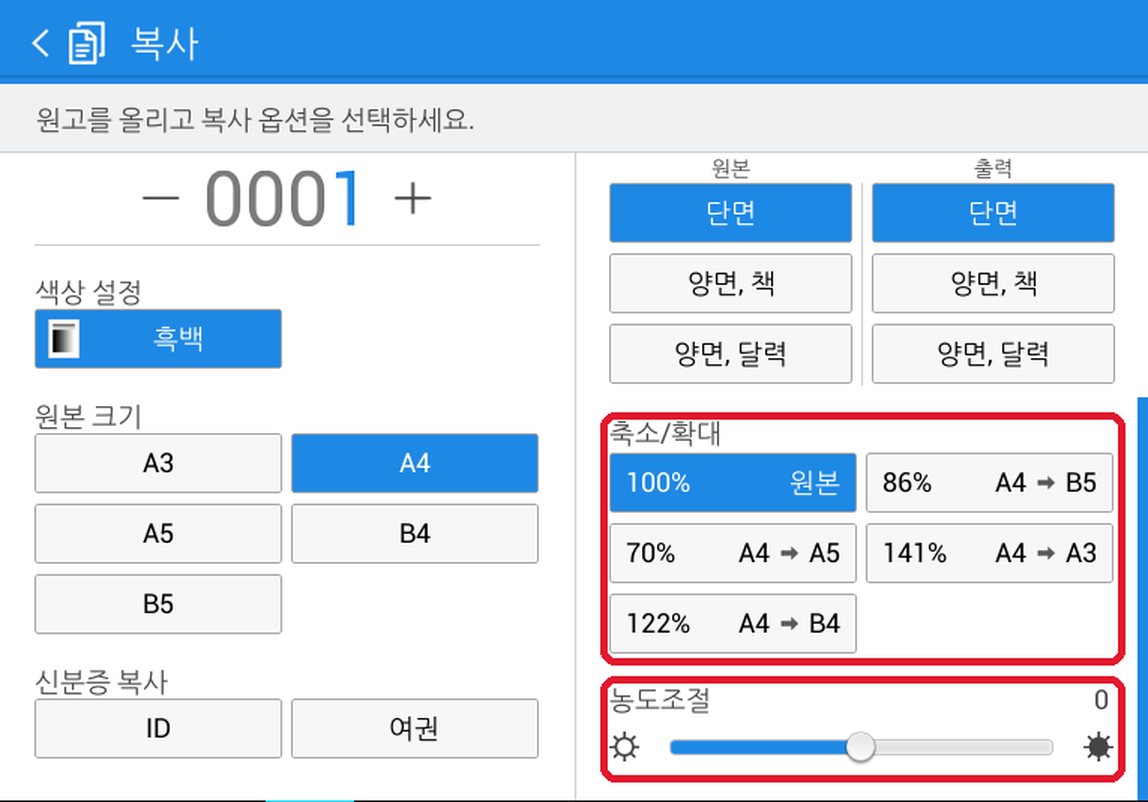
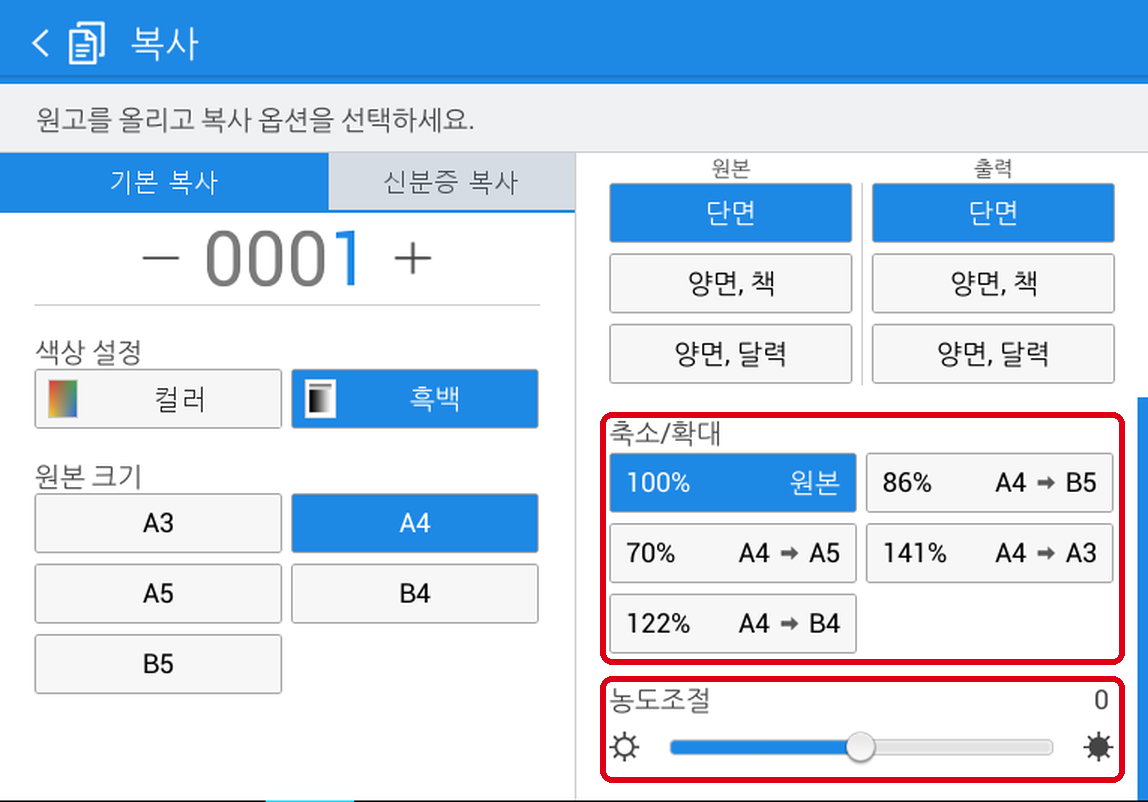
fix: 복사 꿀팁 그림 — 2017 설명서 옛 화면(흑백 하나·탭 없음)을 지금 기계 화면대로: [기본 복사][신분증 복사] 탭, 색상 [컬러][흑백], 신분증 칸 없음 (영·중 그림도 다시)

diff --git a/vi/guide-copy.html b/vi/guide-copy.html
@@ -568,7 +568,7 @@ footer{background:#111827;color:rgba(255,255,255,.55);padding:60px 6%}
 <div class="sec-in">
 <div class="sec-head"><h2 class="sec-h2">Mẹo photo</h2></div>
 <p class="sec-tagline">Trên màn hình photo, bạn có thể đổi kích thước và độ đậm nhạt.</p>
-<a href="../images/copy/copy-zoom-density_en.png" rel="noopener" target="_blank"><img alt="Màn hình photo. Trong khung đỏ là [Reduce/Enlarge] (Thu nhỏ/Phóng to) và [Darkness] (Độ đậm)" class="tipfig" loading="lazy" src="../images/copy/copy-zoom-density_en.png"/></a>
+<a href="../images/copy/copy-zoom-density_en.png?v=2" rel="noopener" target="_blank"><img alt="Màn hình photo. Trong khung đỏ là [Reduce/Enlarge] (Thu nhỏ/Phóng to) và [Darkness] (Độ đậm)" class="tipfig" loading="lazy" src="../images/copy/copy-zoom-density_en.png?v=2"/></a>
 <div class="tips">
 <div class="tip"><div class="tip-h">🔍 Photo to hơn · nhỏ hơn</div><p class="tip-p">Chọn ở <b>[Reduce/Enlarge]</b> (Thu nhỏ/Phóng to).<br/>A4 → A3 to hơn: <b>141%</b><br/>A4 → B4 to hơn: <b>122%</b><br/>A4 → B5 nhỏ hơn: <b>86%</b><br/>A4 → A5 nhỏ hơn: <b>70%</b></p></div>
 <div class="tip"><div class="tip-h">🌗 Nếu quá nhạt hoặc quá đậm</div><p class="tip-p">Kéo thanh <b>[Darkness]</b> (Độ đậm).<br/>Kéo sang phải để <b>đậm hơn</b>, sang trái để <b>nhạt hơn</b>.</p></div>

diff --git a/guide-copy.html b/guide-copy.html
@@ -617,7 +617,7 @@ footer{background:#111827;color:rgba(255,255,255,.55);padding:60px 6%}
   <div class="sec-in">
     <div class="sec-head"><h2 class="sec-h2">복사 꿀팁</h2></div>
     <p class="sec-tagline">복사 화면에서 크기와 진하기를 바꿀 수 있어요.</p>
-    <a href="images/copy/copy-zoom-density.png" target="_blank" rel="noopener"><img class="tipfig" src="images/copy/copy-zoom-density.png" alt="복사 화면. 빨간 상자 안에 [축소/확대]와 [농도조절]이 있는 모습" loading="lazy"></a>
+    <a href="images/copy/copy-zoom-density.png?v=2" target="_blank" rel="noopener"><img class="tipfig" src="images/copy/copy-zoom-density.png?v=2" alt="복사 화면. 빨간 상자 안에 [축소/확대]와 [농도조절]이 있는 모습" loading="lazy"></a>
     <div class="tips">
       <div class="tip"><div class="tip-h">🔍 크게 · 작게 복사</div><p class="tip-p"><b>[축소/확대]</b>에서 고르세요.<br>A4 → A3 크게: <b>141%</b><br>A4 → B4 크게: <b>122%</b><br>A4 → B5 작게: <b>86%</b><br>A4 → A5 작게: <b>70%</b></p></div>
       <div class="tip"><div class="tip-h">🌗 너무 연하거나 진하면</div><p class="tip-p"><b>[농도조절]</b> 막대를 움직이세요.<br>오른쪽으로 밀면 <b>진하게</b>, 왼쪽으로 밀면 <b>연하게</b> 나와요.</p></div>

diff --git a/en/guide-copy.html b/en/guide-copy.html
@@ -568,7 +568,7 @@ footer{background:#111827;color:rgba(255,255,255,.55);padding:60px 6%}
 <div class="sec-in">
 <div class="sec-head"><h2 class="sec-h2">Copy tips</h2></div>
 <p class="sec-tagline">On the copy screen you can change the size and how dark it is.</p>
-<a href="../images/copy/copy-zoom-density_en.png" rel="noopener" target="_blank"><img alt="Copy screen. Inside the red boxes are [Reduce/Enlarge] and [Darkness]" class="tipfig" loading="lazy" src="../images/copy/copy-zoom-density_en.png"/></a>
+<a href="../images/copy/copy-zoom-density_en.png?v=2" rel="noopener" target="_blank"><img alt="Copy screen. Inside the red boxes are [Reduce/Enlarge] and [Darkness]" class="tipfig" loading="lazy" src="../images/copy/copy-zoom-density_en.png?v=2"/></a>
 <div class="tips">
 <div class="tip"><div class="tip-h">🔍 Bigger · smaller copies</div><p class="tip-p">Choose in <b>[Reduce/Enlarge]</b> (Reduce/Enlarge).<br/>A4 → A3 bigger: <b>141%</b><br/>A4 → B4 bigger: <b>122%</b><br/>A4 → B5 smaller: <b>86%</b><br/>A4 → A5 smaller: <b>70%</b></p></div>
 <div class="tip"><div class="tip-h">🌗 If it's too light or too dark</div><p class="tip-p">Move the <b>[Darkness]</b> (Density) bar.<br/>Slide right for <b>darker</b>, slide left for <b>lighter</b>.</p></div>

diff --git a/zh/guide-copy.html b/zh/guide-copy.html
@@ -568,7 +568,7 @@ footer{background:#111827;color:rgba(255,255,255,.55);padding:60px 6%}
 <div class="sec-in">
 <div class="sec-head"><h2 class="sec-h2">复印小技巧</h2></div>
 <p class="sec-tagline">在复印画面可以调整大小和深浅。</p>
-<a href="../images/copy/copy-zoom-density_zh.png" rel="noopener" target="_blank"><img alt="复印画面。红框里是［缩小/放大］和［浓度］" class="tipfig" loading="lazy" src="../images/copy/copy-zoom-density_zh.png"/></a>
+<a href="../images/copy/copy-zoom-density_zh.png?v=2" rel="noopener" target="_blank"><img alt="复印画面。红框里是［缩小/放大］和［浓度］" class="tipfig" loading="lazy" src="../images/copy/copy-zoom-density_zh.png?v=2"/></a>
 <div class="tips">
 <div class="tip"><div class="tip-h">🔍 放大 · 缩小复印</div><p class="tip-p">在<b>［缩小/放大］</b>（缩小/放大）里选择。<br/>A4 → A3 放大：<b>141%</b><br/>A4 → B4 放大：<b>122%</b><br/>A4 → B5 缩小：<b>86%</b><br/>A4 → A5 缩小：<b>70%</b></p></div>
 <div class="tip"><div class="tip-h">🌗 太浅或太深的话</div><p class="tip-p">拖动<b>［浓度］</b>（浓度调节）滑条。<br/>往右拖<b>更深</b>，往左拖<b>更浅</b>。</p></div>

diff --git a/i18n/screens/make_screens.py b/i18n/screens/make_screens.py
@@ -16,7 +16,7 @@ FONTS = {'en': (r'C:\Windows\Fonts\segoeui.ttf', r'C:\Windows\Fonts\segoeuib.ttf
 LANG_BTN = {'en': 'English', 'zh': '简体中文'}
 START = {'en': 'Start', 'zh': '开始'}
 # 흐릿한(작게 찍힌) 그림은 번짐 없이 칸 바탕색으로 칠해서 지우기
-FLAT_FILL = {'images/copy/copy-settings.png', 'images/copy/copy-zoom-density.png'}
+FLAT_FILL = {'images/copy/copy-settings.png'}
 SCREENS = {
  'images/print/print-machine1.png': [
     ((180, 480, 300, 530), {'en': 'Copy', 'zh': '复印'}, 36, 'c', 0, (255, 255, 255)),
@@ -138,17 +138,19 @@ SCREENS = {
     ((30, 100, 485, 142), {'en': 'Load original documents and select copy options.', 'zh': '加载原始文档并选择复印选项。'}, 24, 'l', 0, None),
     ((700, 155, 760, 182), {'en': 'Original', 'zh': '原始图像'}, 17, 'c', 0, None),
     ((962, 155, 1025, 182), {'en': 'Output', 'zh': '输出'}, 17, 'c', 0, None),
-    ((612, 186, 850, 240), {'en': '1 Sided', 'zh': '单面'}, 26, 'c', 0, (255, 255, 255)),
-    ((874, 186, 1112, 240), {'en': '1 Sided', 'zh': '单面'}, 26, 'c', 0, (255, 255, 255)),
-    ((612, 256, 850, 310), {'en': '2 Sided, Book', 'zh': '双面，书本'}, 25, 'c', 0, None),
-    ((874, 256, 1112, 310), {'en': '2 Sided, Book', 'zh': '双面，书本'}, 25, 'c', 0, None),
-    ((612, 326, 850, 380), {'en': '2 Sided, Calendar', 'zh': '双面，日历'}, 23, 'c', 0, None),
-    ((874, 326, 1112, 380), {'en': '2 Sided, Calendar', 'zh': '双面，日历'}, 23, 'c', 0, None),
-    ((30, 276, 150, 307), {'en': 'Color Mode', 'zh': '彩色模式'}, 25, 'l', 0, None),
-    ((95, 316, 278, 362), {'en': 'Mono', 'zh': '单色'}, 26, 'c', 0, (255, 255, 255)),
-    ((30, 398, 150, 432), {'en': 'Original Size', 'zh': '原始大小'}, 25, 'l', 0, None),
-    ((30, 666, 175, 702), {'en': 'ID Copy', 'zh': 'ID 复印'}, 25, 'l', 0, None),
-    ((293, 702, 536, 754), {'en': 'Passport', 'zh': '护照'}, 25, 'c', 0, None),
+    ((618, 192, 844, 234), {'en': '1 Sided', 'zh': '单面'}, 26, 'c', 0, (255, 255, 255)),
+    ((880, 192, 1106, 234), {'en': '1 Sided', 'zh': '单面'}, 26, 'c', 0, (255, 255, 255)),
+    ((618, 262, 844, 304), {'en': '2 Sided, Book', 'zh': '双面，书本'}, 25, 'c', 0, None),
+    ((880, 262, 1106, 304), {'en': '2 Sided, Book', 'zh': '双面，书本'}, 25, 'c', 0, None),
+    ((618, 332, 844, 376), {'en': '2 Sided, Calendar', 'zh': '双面，日历'}, 23, 'c', 0, None),
+    ((880, 332, 1106, 376), {'en': '2 Sided, Calendar', 'zh': '双面，日历'}, 23, 'c', 0, None),
+    # 왼쪽은 2026-10-30 지금 기계대로 다시 그림(make_copy_zoom_ko.py): 탭 + [컬러][흑백], 신분증 칸 없음
+    ((40, 158, 290, 205), {'en': 'Basic Copy', 'zh': '基本复印'}, 25, 'c', 0, (255, 255, 255)),
+    ((345, 158, 560, 205), {'en': 'ID Copy', 'zh': 'ID 复印'}, 25, 'c', 0, None),
+    ((30, 336, 170, 367), {'en': 'Color Mode', 'zh': '彩色模式'}, 25, 'l', 0, None),
+    ((95, 378, 275, 422), {'en': 'Color', 'zh': '彩色'}, 26, 'c', 0, None),
+    ((340, 378, 530, 422), {'en': 'Mono', 'zh': '单色'}, 26, 'c', 0, (255, 255, 255)),
+    ((30, 458, 170, 492), {'en': 'Original Size', 'zh': '原始大小'}, 25, 'l', 0, None),
     ((608, 418, 722, 452), {'en': 'Reduce/Enlarge', 'zh': '缩小/放大'}, 24, 'l', 0, None),
     ((745, 464, 854, 504), {'en': 'Original', 'zh': '原始图像'}, 22, 'r', 0, (255, 255, 255)),
     ((608, 684, 722, 720), {'en': 'Darkness', 'zh': '浓度'}, 24, 'l', 0, None)],

diff --git a/i18n/screens/make_copy_zoom_ko.py b/i18n/screens/make_copy_zoom_ko.py
@@ -1,0 +1,56 @@
+# 복사 꿀팁 그림(images/copy/copy-zoom-density.png) 만들기 — 2026-10-30
+#  - 오른쪽(축소/확대 · 농도조절)은 2017 설명서 화면(video/manual_2017/m16) 그대로 — 지금 기계와 같음
+#  - 왼쪽은 지금 기계 화면대로 고침: [기본 복사][신분증 복사] 탭, 색상 설정 [컬러][흑백], 아래 신분증 복사 칸 없음
+#    (근거: 매장에서 찍은 실제 화면 D:\클로드\복합기화면사진\정리\en·zh\2복사_2_축소확대_농도)
+#  - 만든 뒤 영어·중국어: python -I i18n/screens/make_screens.py images/copy/copy-zoom-density.png
+import os
+import numpy as np
+from PIL import Image, ImageDraw, ImageFont
+ROOT = os.path.dirname(os.path.dirname(os.path.dirname(os.path.abspath(__file__))))
+SRC = os.path.join(ROOT, 'video', 'manual_2017', 'm16_복사_축소확대_농도.png')
+OUT = os.path.join(ROOT, 'images', 'copy', 'copy-zoom-density.png')
+F = r'C:\Windows\Fonts\malgun.ttf'
+BLUE, WHITE = (30, 136, 229), (255, 255, 255)
+
+src = Image.open(SRC).convert('RGB')
+im = src.copy()
+d = ImageDraw.Draw(im)
+W = 383                                   # 왼쪽 칸 너비 (383에 세로 줄)
+d.rectangle((0, 132, W - 1, 563), fill=WHITE)
+im.paste(src.crop((0, 132, W, 454)), (0, 172))   # 0001 ~ B5 를 탭 높이(40)만큼 아래로
+
+# 탭
+d.rectangle((0, 132, 218, 169), fill=BLUE)
+d.rectangle((219, 132, W - 1, 169), fill=(214, 220, 228))
+d.rectangle((0, 170, W - 1, 171), fill=BLUE)
+f = ImageFont.truetype(F, 17)
+d.text((109, 151), '기본 복사', font=f, fill=WHITE, anchor='mm')
+d.text((301, 151), '신분증 복사', font=f, fill=(70, 74, 80), anchor='mm')
+
+# 색상 설정: 왼쪽 [컬러](흰 버튼) · 오른쪽 [흑백](선택된 파란 버튼)
+y0, y1 = 236 + 40, 277 + 40
+mono = im.crop((23, y0, 189, y1))
+white_btn = im.crop((23, 319 + 40, 189, 360 + 40))          # A3 버튼 모양을 빌려 글자만 지움
+wb = ImageDraw.Draw(white_btn)
+wb.rectangle((2, 2, 163, 38), fill=(246, 246, 246))
+im.paste(white_btn, (23, y0))
+im.paste(mono, (194, y0))
+ic = np.zeros((24, 18, 3), np.uint8)                        # 컬러 아이콘(여러 색 네모)
+for yy in range(24):
+    for xx in range(18):
+        t = xx / 17
+        top = np.array([230, 60, 60]) * (1 - t) + np.array([60, 170, 80]) * t
+        bot = np.array([250, 200, 40]) * (1 - t) + np.array([50, 110, 220]) * t
+        ic[yy, xx] = top * (1 - yy / 23) + bot * (yy / 23)
+icon = Image.fromarray(ic)
+d.rectangle((32, y0 + 7, 51, y0 + 32), fill=(200, 200, 200))
+im.paste(icon, (33, y0 + 8))
+d.text((120, (y0 + y1) // 2), '컬러', font=ImageFont.truetype(F, 18), fill=(40, 40, 40), anchor='mm')
+
+out = im.crop((0, 30, 765, 565)).resize((1148, 802), Image.LANCZOS)
+o = ImageDraw.Draw(out)
+for x0, yy0, x1, yy1 in [(403, 278, 746, 440), (403, 454, 746, 518)]:
+    X0, Y0, X1, Y1 = [round(v * 1.5) for v in (x0 - 3, yy0 - 3, x1 + 3, yy1 + 3)]
+    o.rounded_rectangle((X0, Y0, X1, Y1), radius=12, outline=(224, 0, 21), width=6)
+out.save(OUT)
+print('saved', OUT, out.size)
